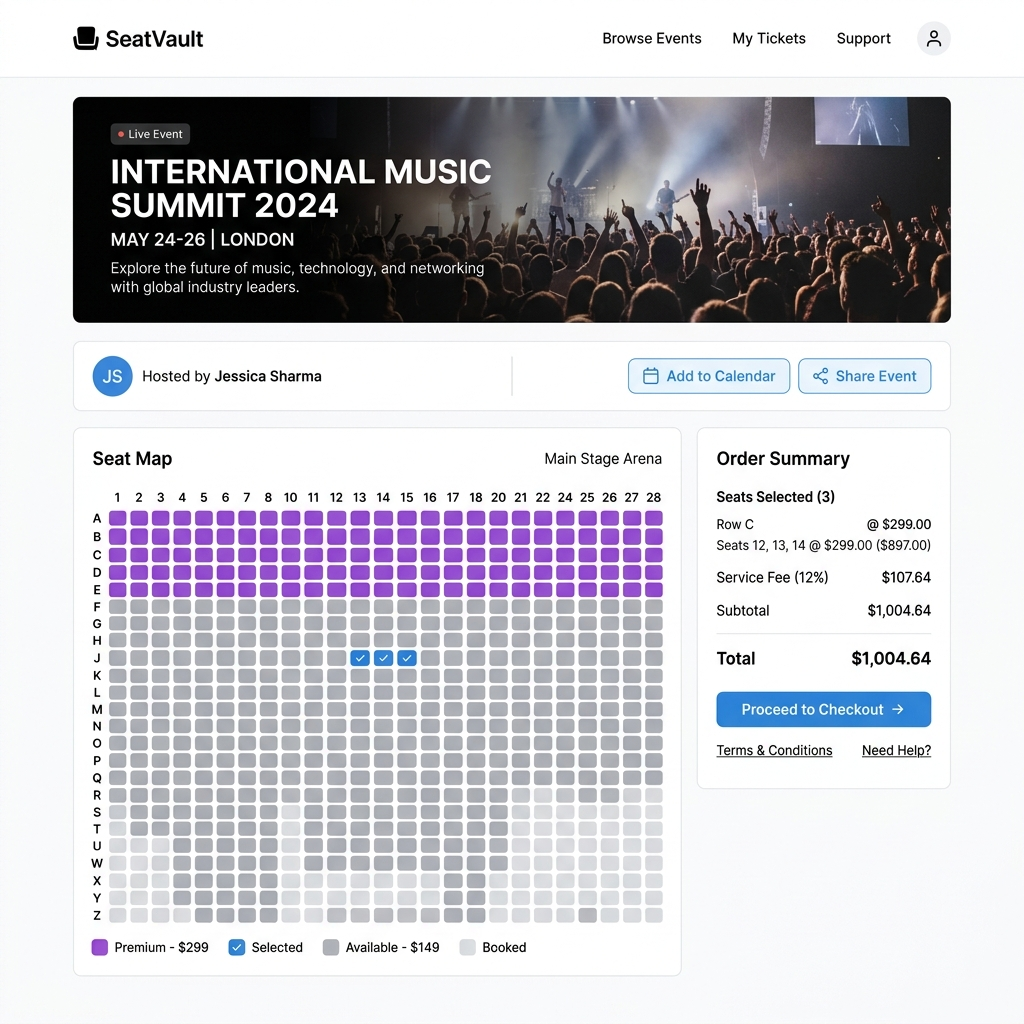
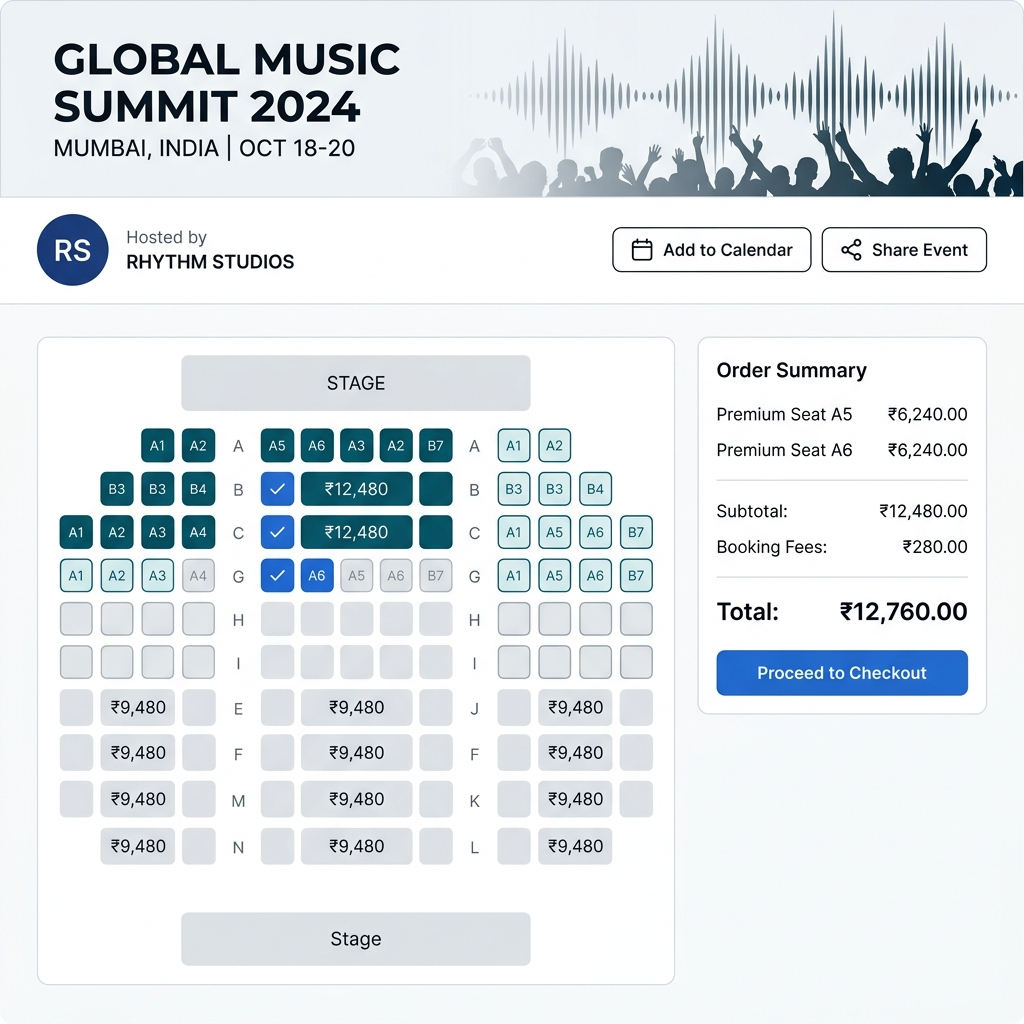
Update booking preview screenshot to INR currency and add client handover delivery report

diff --git a/docs/DELIVERY_REPORT.md b/docs/DELIVERY_REPORT.md
@@ -1,0 +1,83 @@
+# SeatVault Event Ticketing Platform: Delivery Report
+**Prepared for:** Product Delivery & Hand-off  
+**Date:** July 2026  
+**Status:** Completed & Ready for Integration  
+
+---
+
+## 1. Executive Summary
+SeatVault is an enterprise-grade, high-concurrency event ticketing platform built on a modernized Spring Boot 3 / Java 17 backend, paired with an interactive, responsive vanilla HTML/CSS/JS frontend. 
+
+The application is structured to deliver:
+- **Zero Overselling Guarantees:** Multi-layered concurrency checks prevent double-booking.
+- **Premium User Experience:** B2B light-mode reskin inspired by market leading tools (Luma / District).
+- **High Security & Compliance:** JWT-based rotating sessions, dynamic CORS, and brute force defenses.
+- **Observability:** Operational telemetry ready for prometheus metrics collectors.
+
+---
+
+## 2. Feature Walkthrough & Enhancements
+
+### 2.1 Premium UX & Luma Reskin
+- **Light Theme:** Transitioned the entire visual system to a formal light tech theme using CSS custom properties.
+- **Luma Actions & Metadata:** Adds an event-host metadata bar under event banners. Users can download iCalendar files (`.ics` files) directly to add events to Outlook, Google Calendar, or Apple Calendar, and copy deep-linked sharing URLs to their clipboard.
+- **Interactive Seat Map:** Interactive seat picking layout featuring responsive SVG seat rendering, color-coded premium seat tiers, and instant selection feedback.
+
+### 2.2 Security Hardening
+- **JWT Rotation & Sessions:** Short-lived access tokens (15m) paired with rotating refresh tokens (7 days). Session family invalidation is automatically triggered if a compromised token is reused.
+- **Brute Force Protection:** IP rate limiting restricts authentication requests on `/auth/login` to 10 attempts per minute per IP.
+- **Transport Security:** Enforced strict HTTPS headers including HTTP Strict Transport Security (HSTS).
+
+### 2.3 Real-Time Sync & Scalability
+- **WebSocket Seat Synchronization:** STOMP over SockJS sends updates to client seat maps in real time when seats are held or confirmed, preventing concurrent selection conflicts.
+- **Database Connection Optimization:** Tuned HikariCP connection pools to prevent bottlenecks under concurrent checkout transactions.
+- **Payment Circuit Breaker:** Integrated Resilience4j circuit breakers around payment gateway interfaces to handle timeouts and outages gracefully.
+
+### 2.4 Data Auditing & Compliance
+- **Soft Delete:** Enabled soft deletes on the `Event` entity. Deletes are blocked if the event has active bookings, ensuring database integrity.
+- **Administrative Auditing:** Registered JPA EntityListeners to automatically log event creations, updates, and soft deletes to a dedicated `audit_logs` table.
+- **Compliance Pages:** Wired up static, custom-tailored Privacy Policy and Terms of Service documents.
+
+---
+
+## 3. Tech Stack & Infrastructure
+
+- **Language/Framework:** Java 17, Spring Boot 3.3
+- **Database & Migrations:** PostgreSQL 16, Flyway 10
+- **Cache & WebSockets:** Redis 7 (String keys, Sorted Sets), SockJS / STOMP
+- **Resilience & Telemetry:** Resilience4j, Micrometer, Prometheus, Logback JSON
+- **CI/CD Pipeline:** GitHub Actions, OWASP Dependency Check, Trivy CVE Scanner
+
+---
+
+## 4. Operational & Deployment Guide
+
+### Running Locally (Developer Mode)
+1. Ensure JDK 17, PostgreSQL, and Redis are installed.
+2. Build and run tests using the Maven Wrapper:
+   ```bash
+   ./mvnw clean verify
+   ```
+3. Run the boot application under the `dev` profile:
+   ```bash
+   ./mvnw spring-boot:run -Dspring-boot.run.profiles=dev
+   ```
+
+### Deploying to Production
+1. Package the binary:
+   ```bash
+   ./mvnw clean package -DskipTests
+   ```
+2. Run the application with the `prod` profile, ensuring that environment variables (`DB_URL`, `DB_USERNAME`, `DB_PASSWORD`, `REDIS_HOST`, `JWT_SECRET`, `CORS_ALLOWED_ORIGINS`) are set:
+   ```bash
+   java -jar target/ticketing-0.0.1-SNAPSHOT.jar --spring.profiles.active=prod
+   ```
+
+### Creating Administrators
+To register an admin account:
+1. Register a normal account via the web UI.
+2. Elevate the user's role in the database:
+   ```sql
+   UPDATE users SET role = 'ADMIN' WHERE email = 'admin@example.com';
+   ```
+3. Upon logging in, the web client will automatically show the "Create event" portal.
